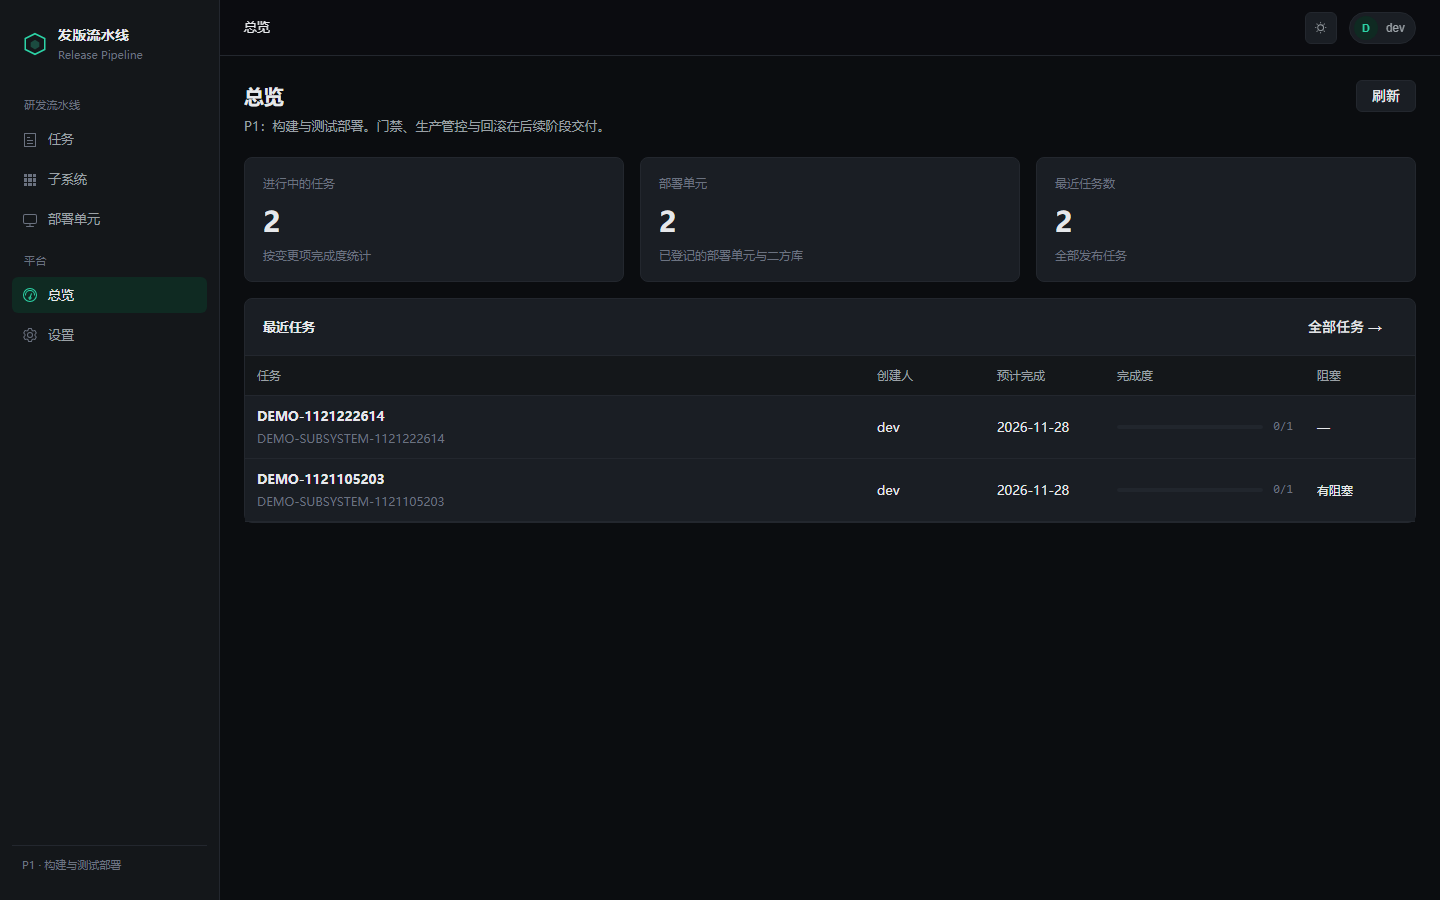
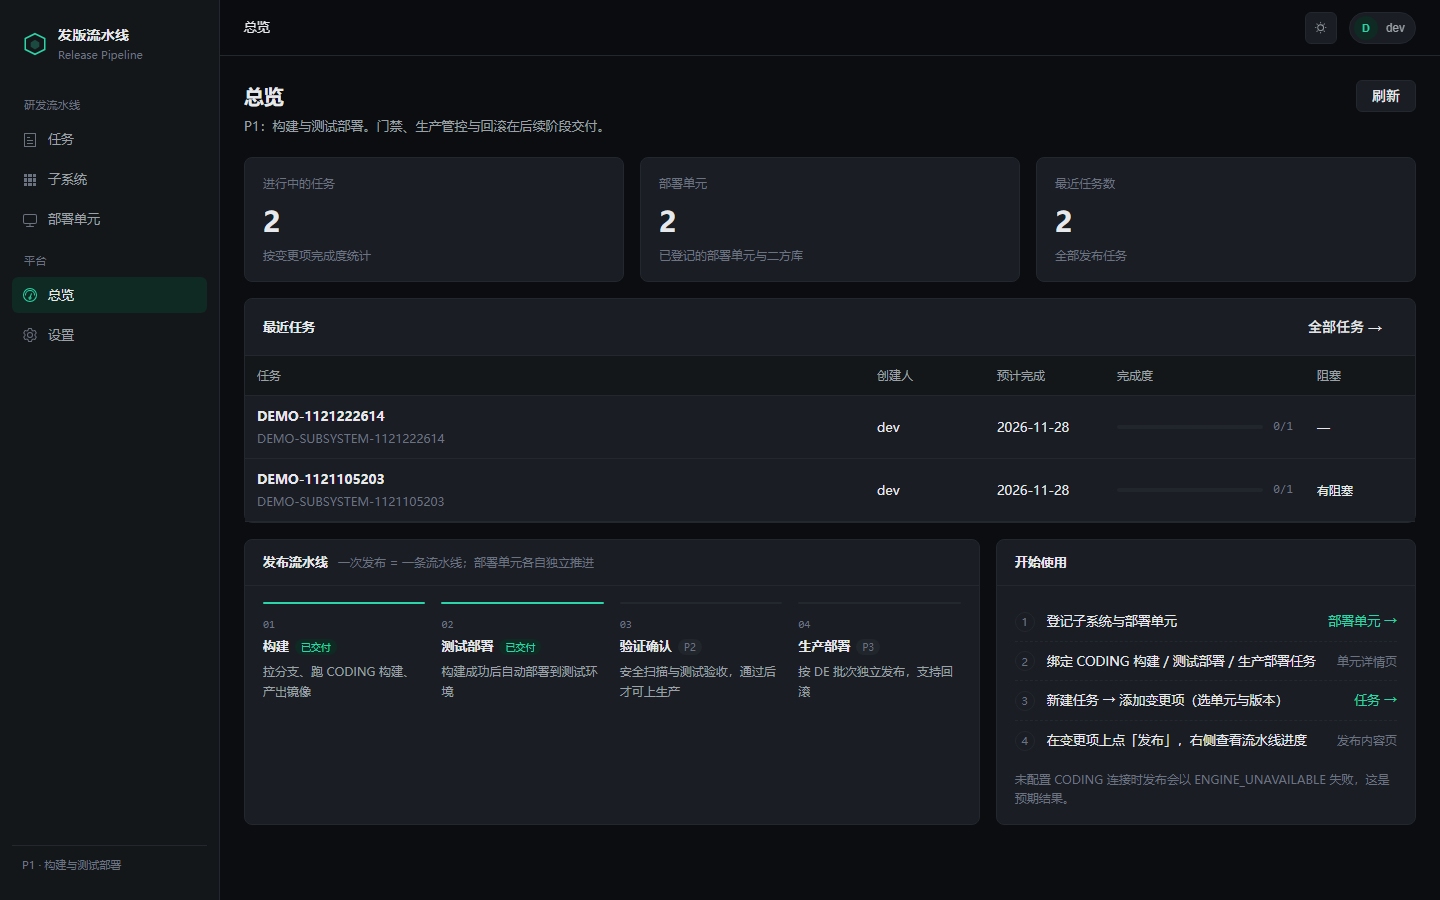
feat(web): fill the dashboard with the pipeline map and a getting-started list
The overview was three stat cards and a two-row table above 400px of empty
space. It now also carries the four pipeline stages (with the P1/P2/P3 boundary
marked on the rule) and the four steps from registering a unit to pressing 发布.

diff --git a/web/src/views/DashboardView.vue b/web/src/views/DashboardView.vue
@@ -30,6 +30,13 @@ async function load() {
 
 onMounted(load)
 
+const flow = [
+  { no: '01', name: '构建', desc: '拉分支、跑 CODING 构建、产出镜像', tag: '已交付', live: true },
+  { no: '02', name: '测试部署', desc: '构建成功后自动部署到测试环境', tag: '已交付', live: true },
+  { no: '03', name: '验证确认', desc: '安全扫描与测试验收，通过后才可上生产', tag: 'P2', live: false },
+  { no: '04', name: '生产部署', desc: '按 DE 批次独立发布，支持回滚', tag: 'P3', live: false }
+]
+
 function openTask(id: number) {
   router.push(`/tasks/${id}`)
 }
@@ -113,6 +120,45 @@ function openTask(id: number) {
       <EmptyState v-else-if="!loading" title="还没有发布任务" hint="从「任务」页新建一个任务开始。" />
       <div v-else style="padding: 24px"><el-skeleton :rows="4" animated /></div>
     </DataSection>
+
+    <div class="split">
+      <DataSection title="发布流水线" subtitle="一次发布 = 一条流水线；部署单元各自独立推进">
+        <div class="flow">
+          <div v-for="step in flow" :key="step.no" class="flow-item" :class="{ on: step.live }">
+            <div class="flow-no">{{ step.no }}</div>
+            <div class="flow-name">
+              {{ step.name }}
+              <span class="flow-tag" :class="step.live ? 'live' : 'later'">{{ step.tag }}</span>
+            </div>
+            <div class="flow-desc">{{ step.desc }}</div>
+          </div>
+        </div>
+      </DataSection>
+
+      <DataSection title="开始使用">
+        <ol class="howto">
+          <li>
+            <span>登记子系统与部署单元</span>
+            <router-link to="/units">部署单元 →</router-link>
+          </li>
+          <li>
+            <span>绑定 CODING 构建 / 测试部署 / 生产部署任务</span>
+            <span class="weak small">单元详情页</span>
+          </li>
+          <li>
+            <span>新建任务 → 添加变更项（选单元与版本）</span>
+            <router-link to="/tasks">任务 →</router-link>
+          </li>
+          <li>
+            <span>在变更项上点「发布」，右侧查看流水线进度</span>
+            <span class="weak small">发布内容页</span>
+          </li>
+        </ol>
+        <p class="weak small" style="margin: 10px 0 0">
+          未配置 CODING 连接时发布会以 ENGINE_UNAVAILABLE 失败，这是预期结果。
+        </p>
+      </DataSection>
+    </div>
   </div>
 </template>
 
@@ -133,5 +179,108 @@ function openTask(id: number) {
 }
 :deep(.el-table__row) {
   cursor: pointer;
+}
+
+.split {
+  display: grid;
+  grid-template-columns: minmax(0, 1.75fr) minmax(0, 1fr);
+  gap: 16px;
+  margin-top: 16px;
+}
+
+.flow {
+  display: grid;
+  grid-template-columns: repeat(4, minmax(0, 1fr));
+  gap: 16px;
+}
+.flow-item {
+  position: relative;
+  padding-top: 14px;
+}
+.flow-item::before {
+  content: '';
+  position: absolute;
+  inset: 0 0 auto;
+  height: 2px;
+  border-radius: 2px;
+  background: var(--border);
+}
+.flow-item.on::before {
+  background: var(--accent);
+}
+.flow-no {
+  font-family: ui-monospace, 'JetBrains Mono', Consolas, 'Courier New', monospace;
+  font-size: 11px;
+  color: var(--text-3);
+}
+.flow-name {
+  display: flex;
+  align-items: center;
+  gap: 6px;
+  margin: 3px 0 5px;
+  font-size: 13px;
+  font-weight: 600;
+  color: var(--text);
+}
+.flow-tag {
+  padding: 0 6px;
+  border-radius: 999px;
+  font-size: 10px;
+  font-weight: 400;
+  line-height: 16px;
+}
+.flow-tag.live {
+  color: var(--accent);
+  background: var(--accent-weak);
+}
+.flow-tag.later {
+  color: var(--text-3);
+  background: var(--surface-3);
+}
+.flow-desc {
+  font-size: 12px;
+  line-height: 1.65;
+  color: var(--text-2);
+}
+
+.howto {
+  margin: 0;
+  padding: 0;
+  list-style: none;
+  counter-reset: howto;
+}
+.howto li {
+  counter-increment: howto;
+  display: grid;
+  grid-template-columns: 22px 1fr auto;
+  align-items: baseline;
+  gap: 10px;
+  padding: 9px 0;
+  border-bottom: 1px dashed var(--border);
+  font-size: 13px;
+}
+.howto li:last-child {
+  border-bottom: none;
+}
+.howto li::before {
+  content: counter(howto);
+  font-size: 11px;
+  color: var(--text-3);
+  border: 1px solid var(--border);
+  border-radius: 50%;
+  width: 20px;
+  height: 20px;
+  display: inline-flex;
+  align-items: center;
+  justify-content: center;
+}
+
+@media (max-width: 1100px) {
+  .split {
+    grid-template-columns: 1fr;
+  }
+  .flow {
+    grid-template-columns: repeat(2, minmax(0, 1fr));
+  }
 }
 </style>
